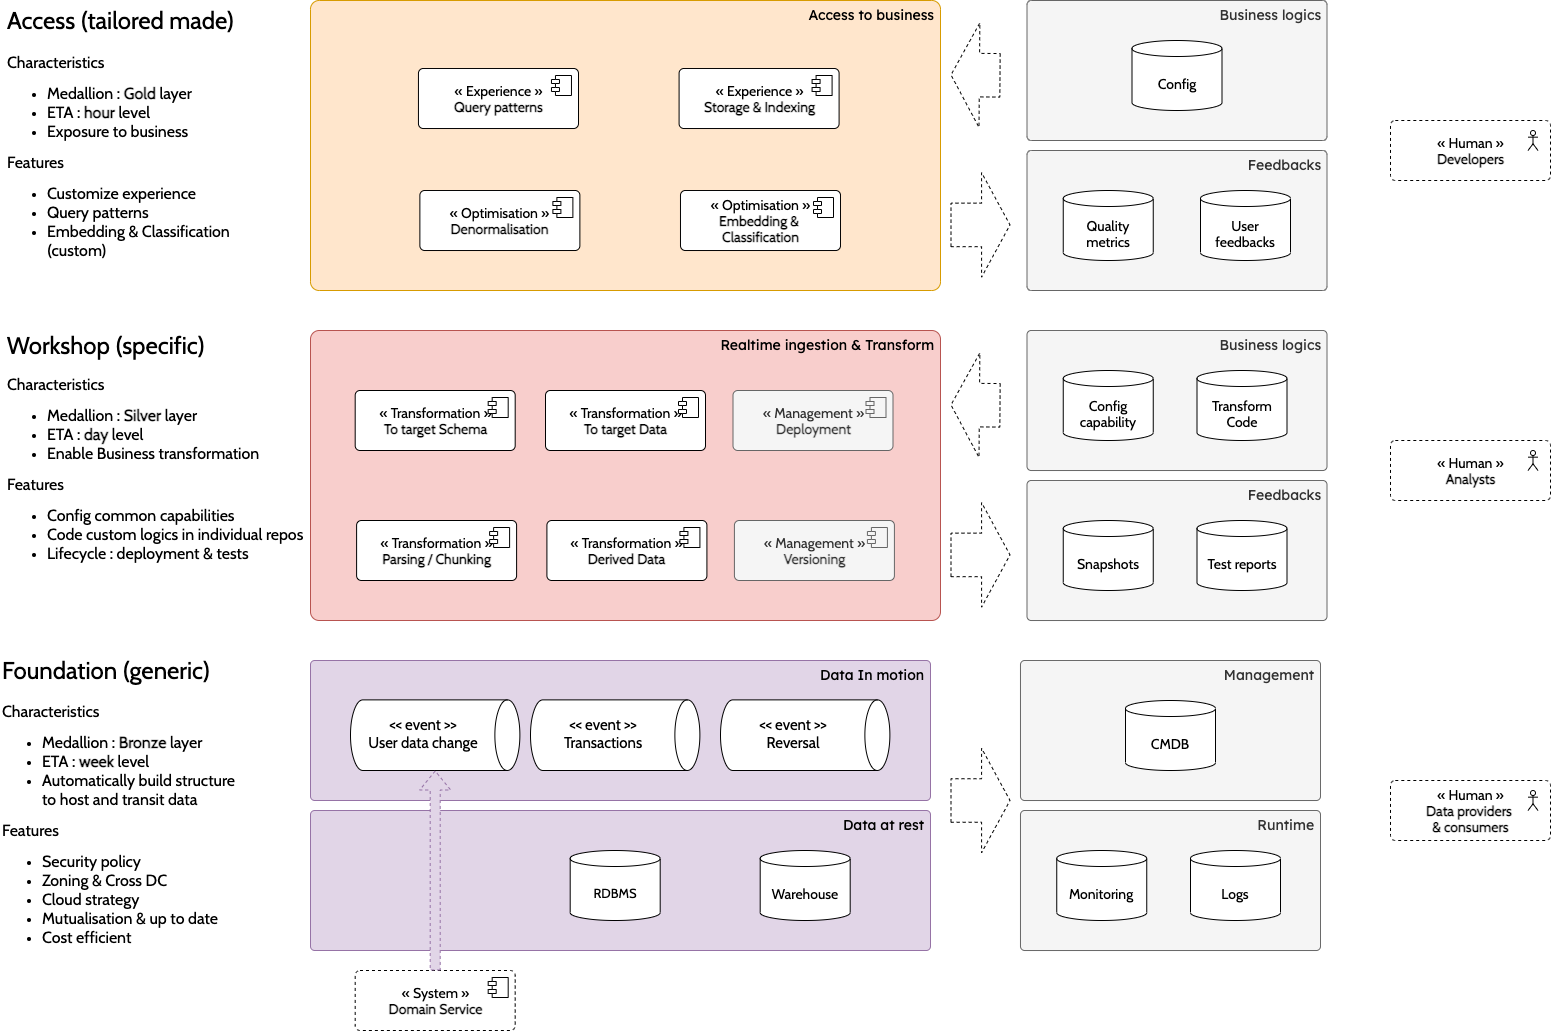
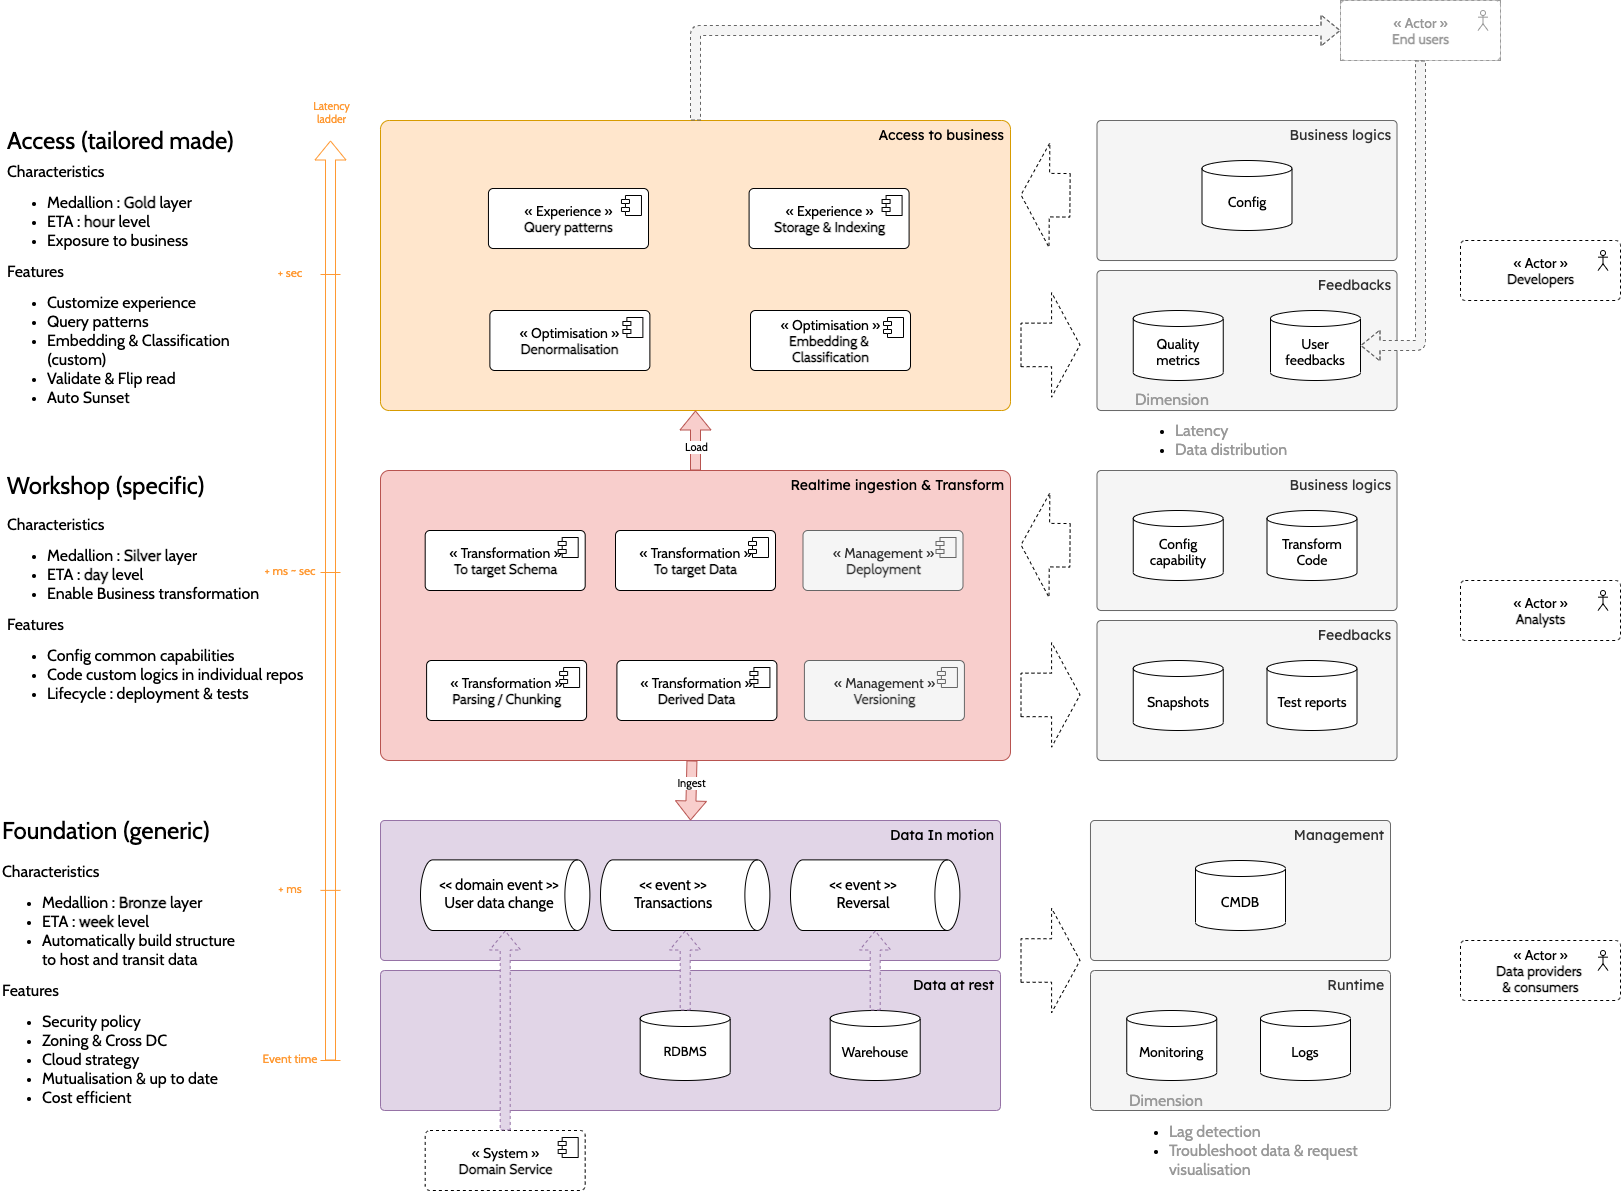
doc : knowledge architecture - maturity stage

diff --git a/_docs_/knowledge.md b/_docs_/knowledge.md
@@ -12,59 +12,7 @@ In enterprise, each system is optimised for consistence (database transaction). 
 
 The need for a consolidated, quality validated & troubleshooting system for error is the key to all reliable Q&A system delivered to customer
 
-
-## Knowledge workshop
-
-### Architecture
-
-![knowledge-architecture](images/knowledge-architecture.png)
-
-#### Access (tailored made)
-
-Characteristics
-
-* Medallion : **Gold** layer
-* ETA : **hour** level
-* Exposure to business
-
-Features
-
-* Customize experience
-* Query patterns
-* Embedding & Classification (custom)
-
-#### Workshop (specific)
-
-Characteristics
-
-* Medallion : **Silver** layer
-* ETA : **day** level
-* Enable Business transformation
-
-Features
-
-* Config common capabilities
-* Code custom logics in individual repos
-* Lifecycle : deployment & tests
-
-
-#### Foundation (generic)
-
-Characteristics
-
-* Medallion : **Bronze** layer
-* ETA : **week** level
-* Automatically build structure to host and transit data
-
-Features
-
-* Security policy
-* Zoning & Cross DC
-* Cloud strategy
-* Mutualisation & up to date
-* Cost efficient
-
-### Building a knowledge base
+## Building a knowledge base
 
 Building the knowledge base should be **predictable and tested** to ensure high level quality of the information (normally higher than letting LLM guess).
 
@@ -84,6 +32,35 @@ The process usually involves :
 
 * Time accuracy : Based on volatility : realtime vs batch.
 * Security & Compliance : give the right access to the right person. Auditable system
+
+
+## Knowledge infrastructure
+
+"Transforming data into information then to knowledge & wisdom"
+
+### Architecture
+
+On the left side, data cross **different maturity stages** following the [medallion architecture](https://www.databricks.com/glossary/medallion-architecture) principle for realtime.
+
+At each stage, **latencies** are tracked and allow to detect data freshness shift. New deployment may introduce new delays & should be tracked between version. 
+
+During the blue green deployment (introducing new changes), the **validation / certification step** should include
+
+* **Data freshness** across version : previous compute and new compute delay can be compared, optimised & approved.
+* **Data distribution** across version : if fields already exists in the previous version, high level statistics (total, etc) & value distribution could be compared.
+
+The application is released to end user and **effectiveness** is dynamically tracked and report back to business.
+
+![knowledge-architecture](images/knowledge-architecture.png)
+
+#### Stage
+
+|                 |           | Foundation (generic)                                                                                             | Workshop (specific)                                                                                          | Access (tailored made)                                                              |
+|-----------------|-----------|------------------------------------------------------------------------------------------------------------------|--------------------------------------------------------------------------------------------------------------|-------------------------------------------------------------------------------------|
+| Characteristics | Medallion | Bronze                                                                                                           | Silver                                                                                                       | Gold                                                                                |
+|                 | ETA       | Week level                                                                                                       | Day level                                                                                                    | Hour level                                                                          |
+|                 | Goal      | Automatically build structure to host and transit data                                                           | Enable Business transformation                                                                               | Exposure to business                                                                |
+| Features        |           | * Security policy<br>* Zoning & Cross DC<br>* Cloud strategy<br>* Mutualisation & up to date<br>* Cost efficient | * Config common capabilities<br>* Code custom logics in individual repos<br>* Lifecycle : deployment & tests | * Customize experience<br>* Query patterns<br>* Embedding & Classification (custom) |
 
 ### Enablers - Tools & Ecosystem
 
